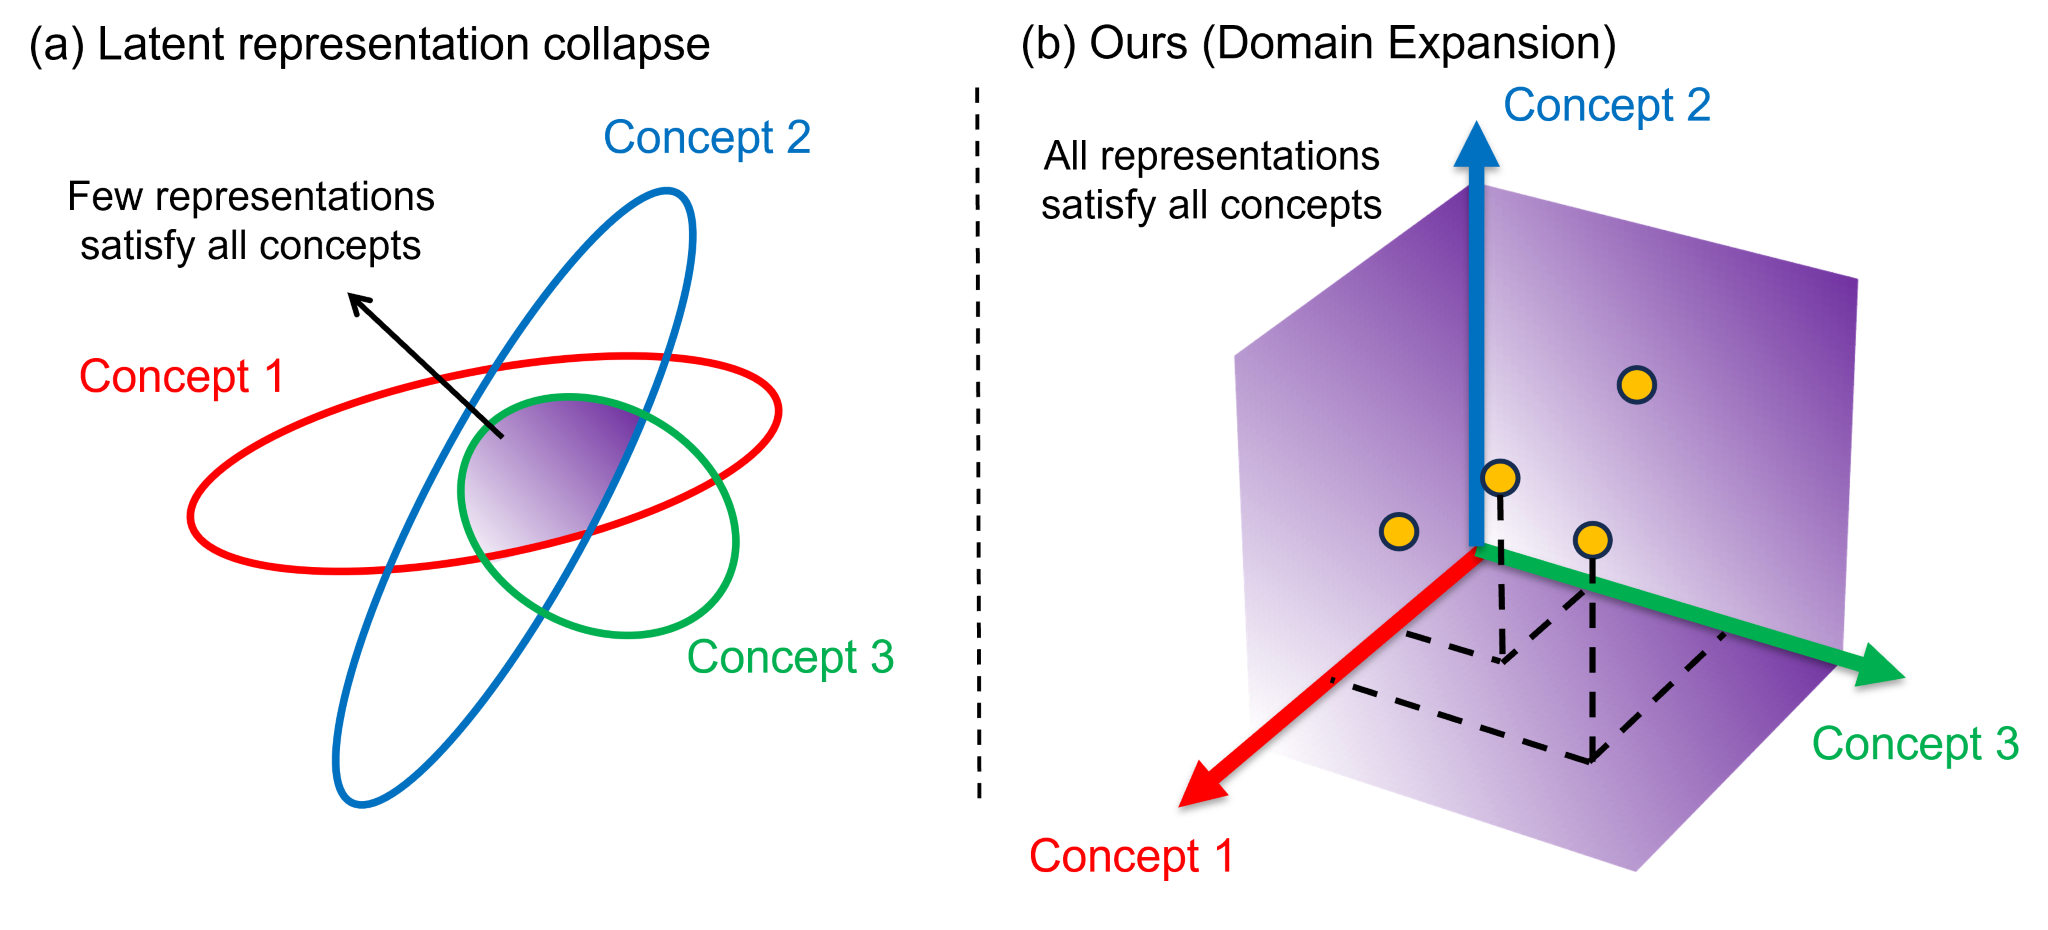
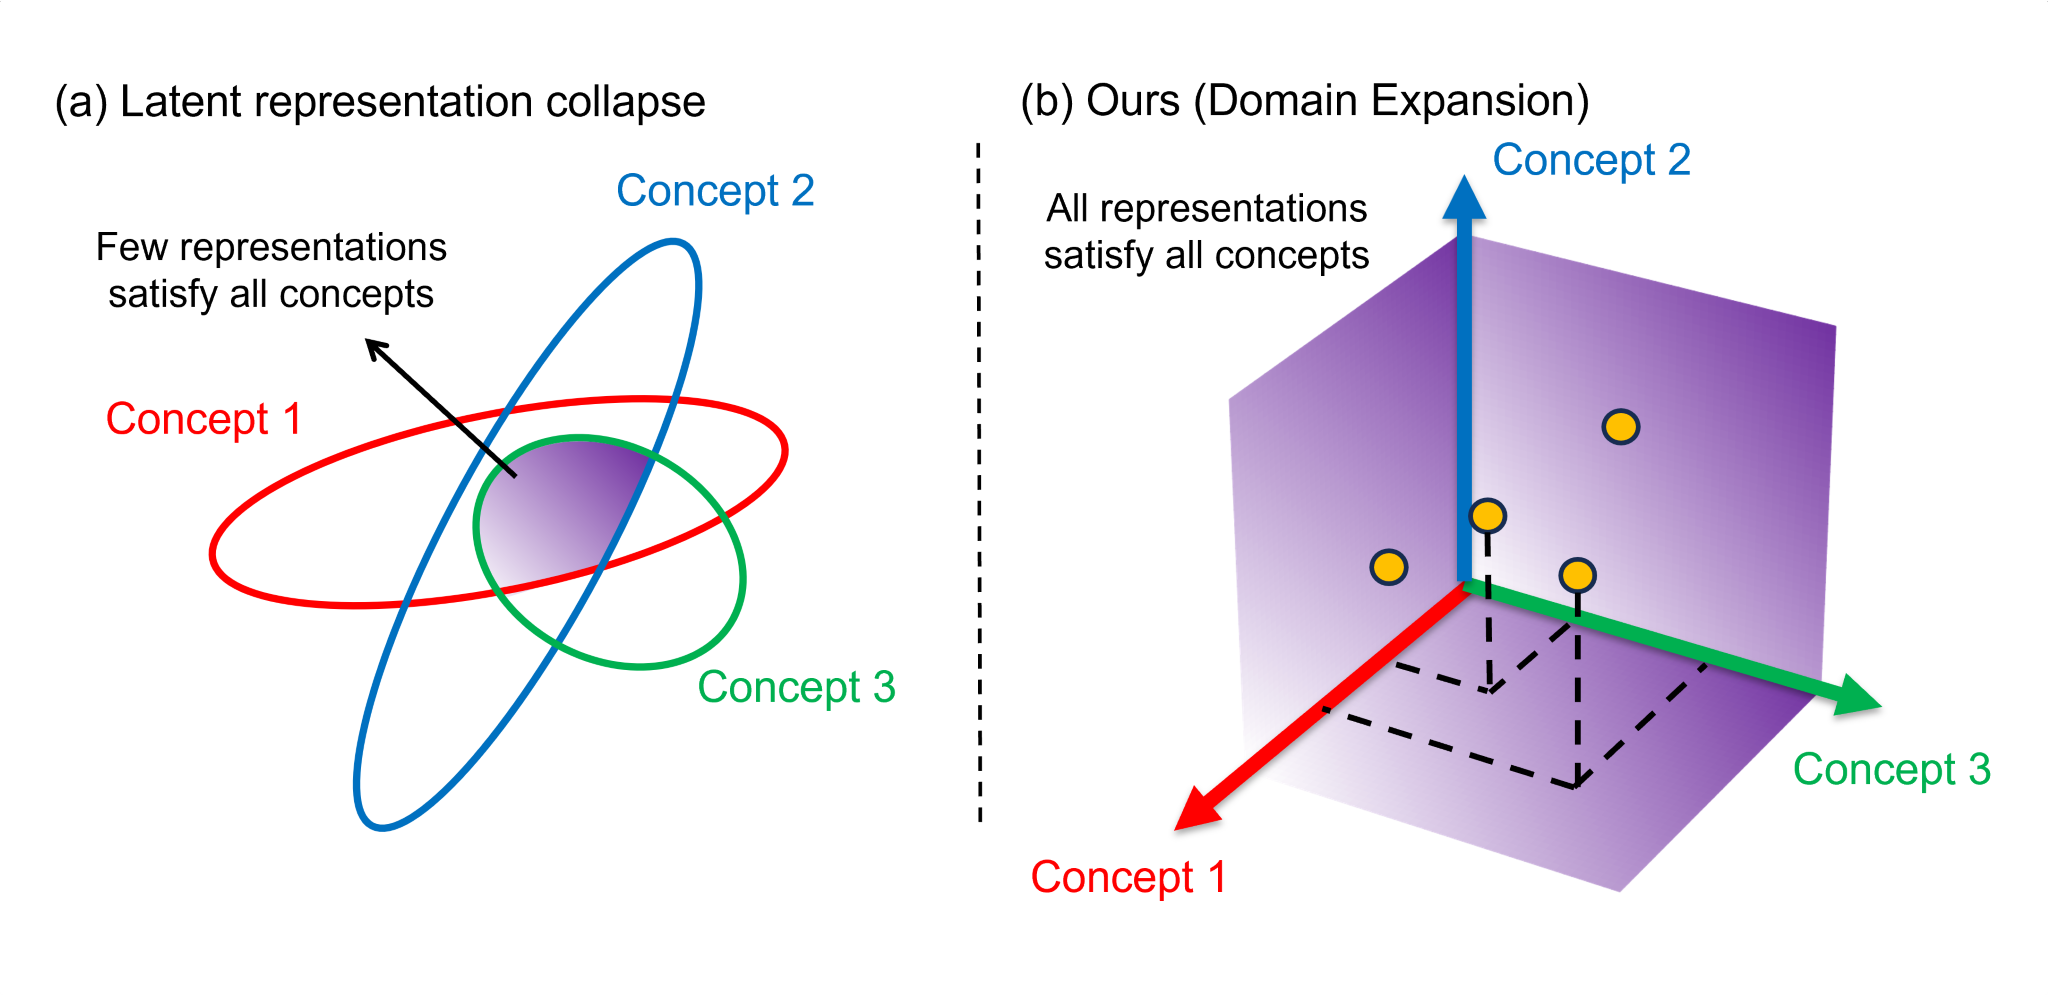
[DE] Update main figure

diff --git a/README.md b/README.md
@@ -2,16 +2,15 @@
 
 **Authors:** Chi-Yao Huang, Khoa Vo, Aayush Atul Verma, Duo Lu, and Yezhou Yang
 
+### 🚧 Work in Progress
+**The code for this paper is currently being prepared for release. Please check back soon!**
+
 ## Abstract
 Training a single network with multiple objectives often leads to conflicting gradients that degrade shared representations, forcing them into a compromised state that is suboptimal for any single task—a problem we term latent representation collapse. We introduce Domain Expansion, a framework that prevents these conflicts by restructuring the latent space itself. Our framework uses a novel orthogonal pooling mechanism to construct a latent space where each objective is assigned to a mutually orthogonal subspace. We validate our approach across diverse benchmarks—including ShapeNet, MPIIGaze, and Rotated MNIST—on challenging multi-objective problems combining classification with pose and gaze estimation. Our experiments demonstrate that this structure not only prevents collapse but also yields an explicit, interpretable, and compositional latent space where concepts can be directly manipulated.
 
 ## Main Figure
-Here is the central illustration of our method:
-
 ![Domain Expansion](main.png)
 
 (a) **Latent representation collapse**: In standard multi-task learning, competing objectives lead to latent representation collapse, where the solution spaces for different concepts (colored ellipses) overlap in only a small, compromised region.
 (b) **Domain Expansion**: In contrast, our method assigns each concept to an orthogonal basis vector in the latent space, preventing interference and creating a structured, interpretable representation where features for each concept are clearly separated.
 
-### 🚧 Work in Progress
-**The code for this paper is currently being prepared for release. Please check back soon!**
